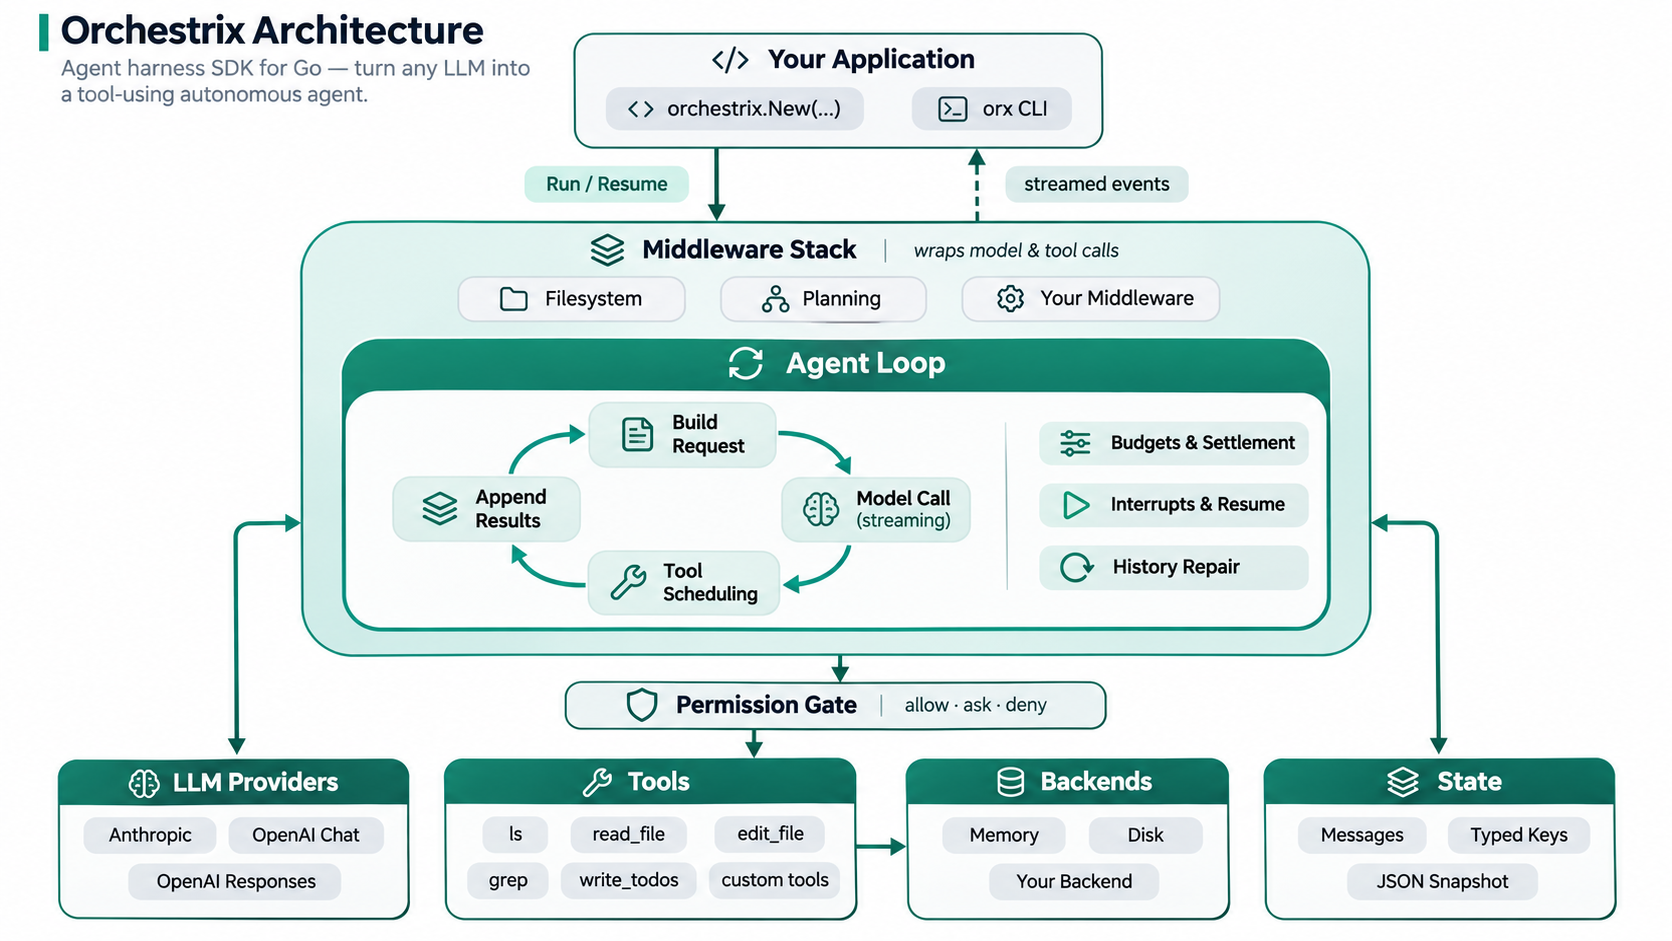
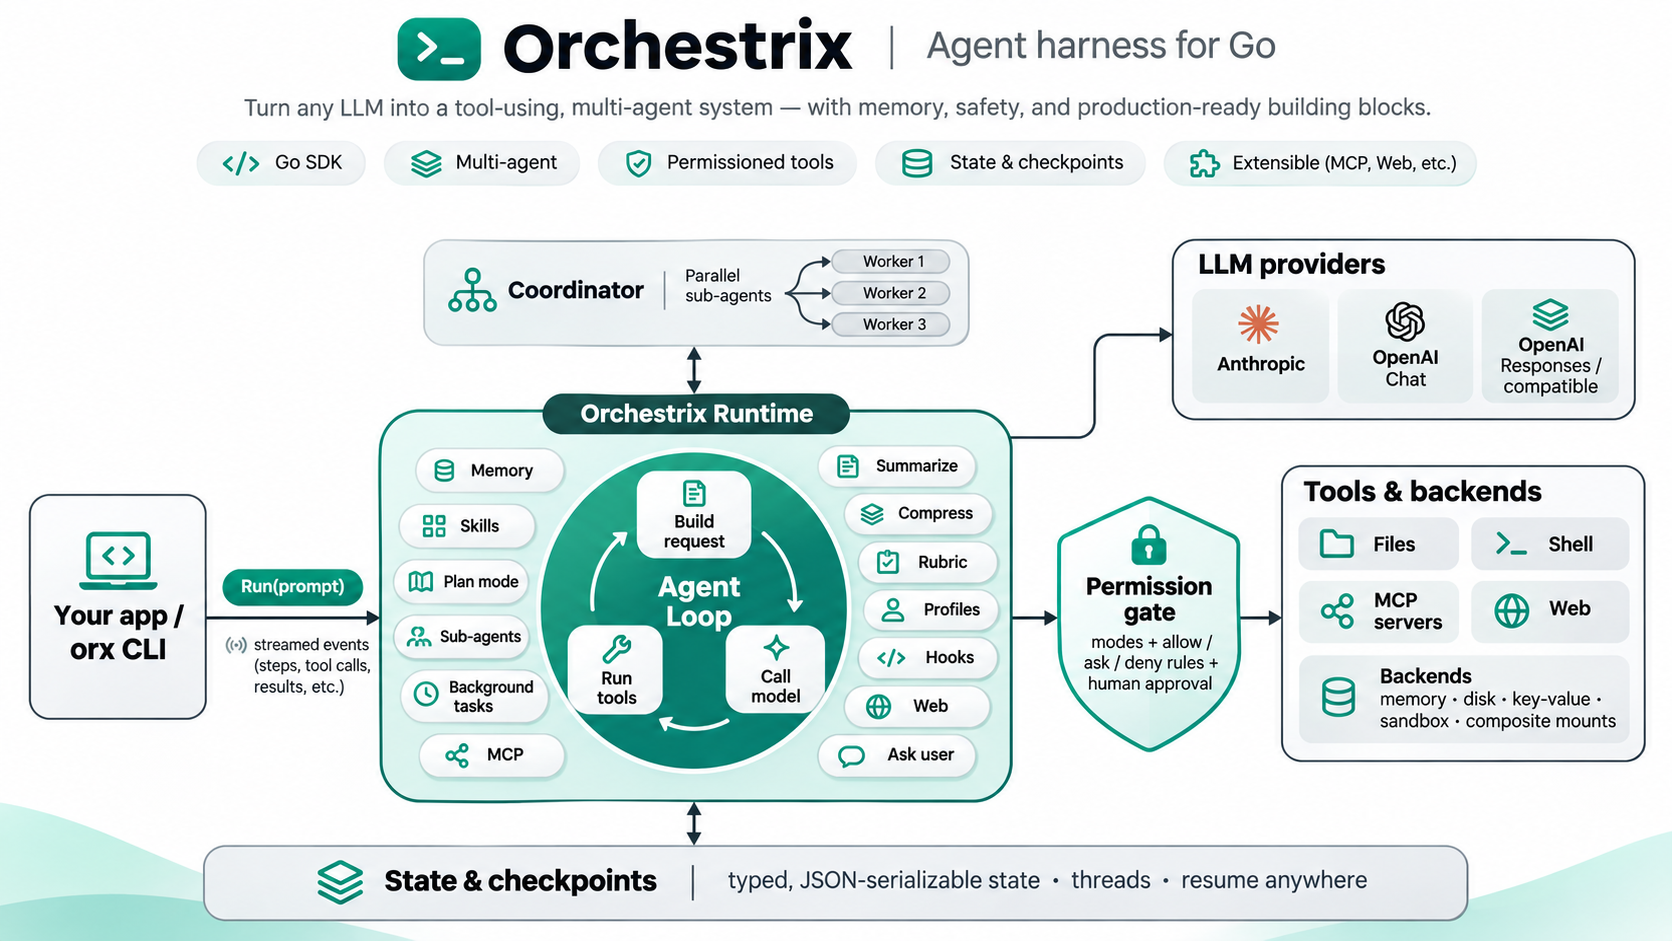
docs(readme): updated architecture diagram

diff --git a/README.md b/README.md
@@ -12,7 +12,7 @@ You get a production-ready agent loop in a few lines of code, with two small dep
 > Orchestrix is under active development. Milestones 1 (the core), 2 (depth), 3 (knowledge and reach) and 4 (scale) are complete; the API may still change before 1.0.
 
 <p align="center">
-  <img src="assets/architecture.png" alt="Orchestrix architecture: your application runs the agent loop, which is wrapped by a middleware stack, calls LLM providers, sends every tool call through a permission gate to tools and backends, and keeps its conversation in serializable state." width="900">
+  <img src="assets/architecture.png" alt="Orchestrix architecture: your app or the orx CLI runs the agent loop (build request, call model, run tools) inside a middleware stack (memory, skills, plan mode, subagents, background tasks, MCP, summarize, compress, rubric, profiles, hooks, web, ask user). A coordinator fans work out to parallel subagents. The loop calls Anthropic or OpenAI-compatible providers, and every tool call passes a permission gate before reaching files, shell, MCP servers, web and backends (memory, disk, key-value, sandbox, composite mounts). Everything is kept in typed, JSON-serializable state with threads and checkpoints." width="900">
 </p>
 
 Your application starts a run with `orchestrix.New(...)` (or the `orx` CLI) and receives streamed events back. The agent loop builds each request, calls the model, schedules tool calls and appends their results. Middleware wraps the model and tool calls. Every tool call passes the permission gate before it touches a backend, and the whole conversation lives in typed, JSON-serializable state.
